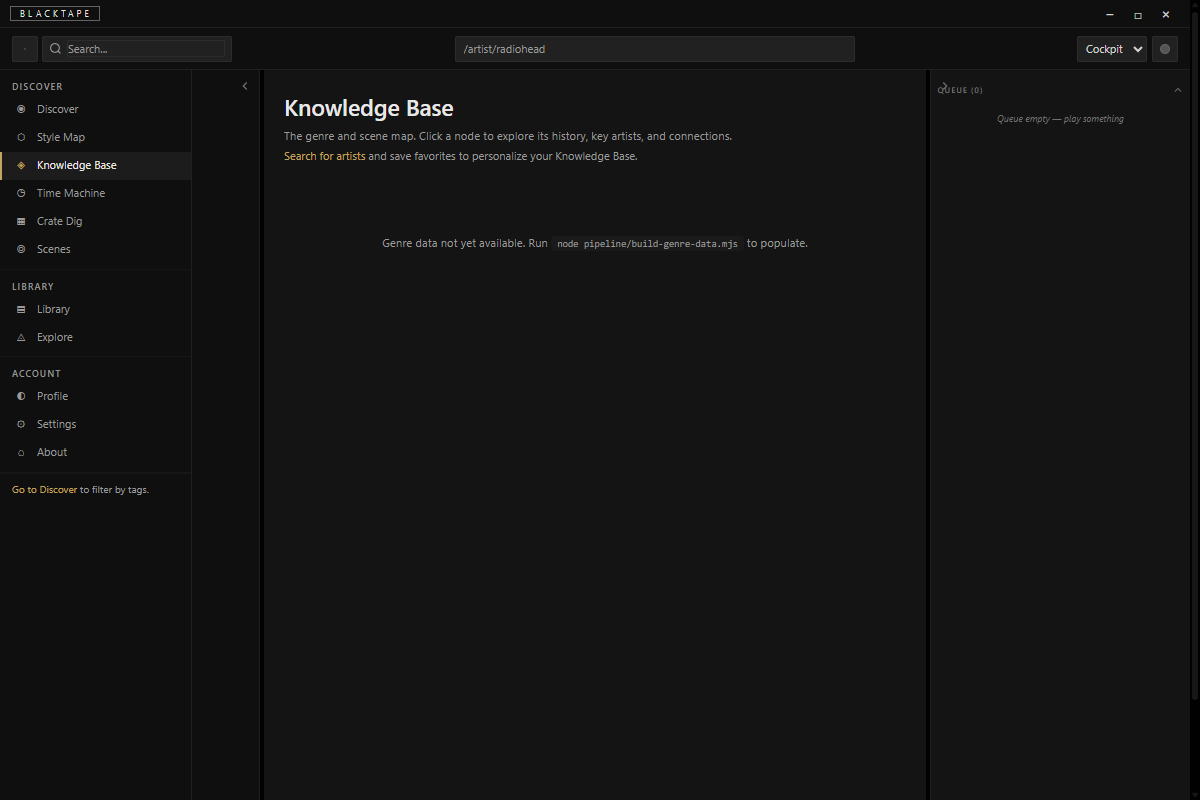
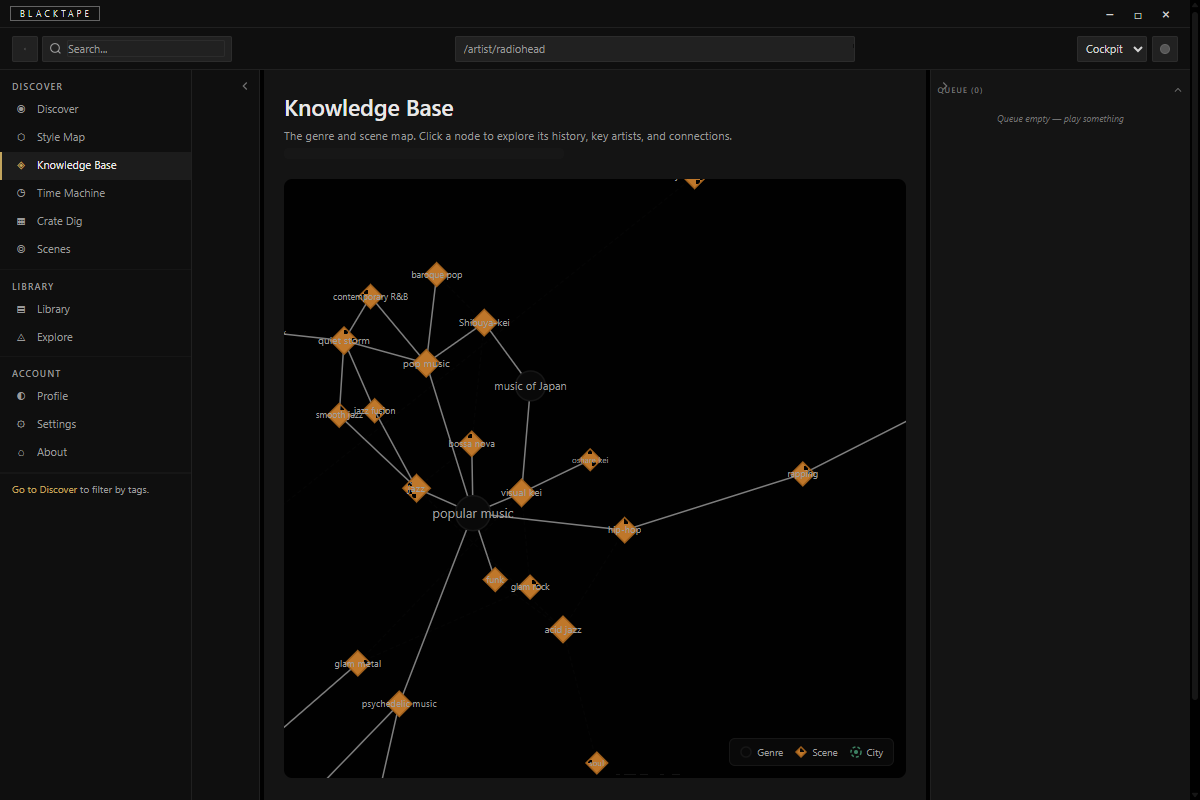
wip: auto-save

diff --git a/.claude/HANDOFF.md b/.claude/HANDOFF.md
@@ -1,47 +1,33 @@
 # Work Handoff — 2026-02-26
 
 ## Current Task
-Press screenshots — v2 fixes. Nearly done. One remaining item: KB genre graph.
+Press screenshots — COMPLETE. All 18 shots done. Ready to commit and execute Phase 28.
 
-## Progress
+## What Was Done (This Session)
+- ✅ Wikipedia thumbnails in ArtistCard.svelte (new `src/lib/wiki-thumbnail.ts`)
+- ✅ Card grids load real artist images (10-42 per view)
+- ✅ Discover country filter bug fixed (full names + UI-based navigation)
+- ✅ All discover filter shots returning 50 results
+- ✅ KB genre data merged into correct DB (`com.blacktape.app`, not `com.mercury.app`)
+- ✅ KB genre graph screenshot taken (graph rendered)
+- ✅ Debug logging reverted in `kb/+page.ts`
 
-### Completed This Session
-- ✅ Implemented Wikipedia thumbnail loading in `ArtistCard.svelte` (new `src/lib/wiki-thumbnail.ts`)
-- ✅ Card grid images now load (time machine: 10, crate dig: 11, search: 42 images loaded)
-- ✅ Fixed discover country filter bug — full country names required (e.g. "Finland" not "FI")
-- ✅ Discover filter shots all returning 50 results: doom+Finland, black metal+Norway, post-punk+UK, krautrock+Germany
-- ✅ Merged KB genre data into live AppData DB: 2906 genres, 2733 relationships
-  - Script: `pipeline/merge-genre-data.cjs` (DROP old schema, CREATE new, copy from pipeline/data/mercury.db)
-- ✅ Updated `tools/take-press-screenshots.mjs` with all fixes + keeper logic
+## Root Cause of KB Issue
+Wrong DB path. App identifier is `com.blacktape.app` but merge script was writing to `com.mercury.app`. Fixed in `pipeline/merge-genre-data.cjs`.
 
-### Keepers (DO NOT OVERWRITE)
-- `discover-niche-filters-shoegaze-japan.png`
-- `artist-niche-badge-obscure.png`
-- `artist-stats-tab.png`
+## Uncommitted Files
+- `src/lib/wiki-thumbnail.ts` (NEW)
+- `src/lib/components/ArtistCard.svelte`
+- `src/routes/kb/+page.ts` (debug log reverted — clean)
+- `tools/take-press-screenshots.mjs`
+- `tools/debug-kb-genre.mjs` (NEW — debug tool, can keep or delete)
+- `pipeline/merge-genre-data.cjs` (NEW)
+- `BUILD-LOG.md`
 
-### Still Broken
-- ❌ `knowledge-base-genre-graph.png` — KB page still shows "Genre data not yet available" despite 2906 genres being in the live DB. The Node.js query works fine (confirmed 50 nodes returned). Silent error in the Tauri IPC path somewhere. Rust init does NOT recreate the genres table. The `query_mercury_db` is a generic passthrough.
-
-## KB Debug Next Steps
-1. Check if the binary needs a recompile to pick up new DB state (try `cargo build` and rerun)
-2. OR: inspect the `getStarterGenreGraph` query — it uses 40 spread params which might hit a Tauri IPC serialization limit
-3. OR: Add console.error logging to KB `+page.ts` catch block temporarily, retake screenshot, check WebView2 devtools
-4. If still broken after 15 min: skip KB shot entirely — the other 17 shots are all good
-
-## Files Changed This Session
-- `src/lib/wiki-thumbnail.ts` — NEW: cached Wikipedia thumbnail fetcher
-- `src/lib/components/ArtistCard.svelte` — added $effect to load wiki thumbnail, img tag in art area
-- `tools/take-press-screenshots.mjs` — full rewrite with: keeper skip logic, UI-based country filters, image wait helper, KB skip on empty
-- `pipeline/merge-genre-data.cjs` — NEW: merges genres from pipeline/data/mercury.db into live AppData DB
-
-## Current Screenshot State
-All 18 files in `press-screenshots/v2/`. Most are now correct. Only `knowledge-base-genre-graph.png` may still be broken.
-
-## After Screenshots Are Done
-Execute Phase 28: `/gsd:execute-phase 28`
-
-## Git Status
-Uncommitted: ArtistCard.svelte, wiki-thumbnail.ts, take-press-screenshots.mjs, merge-genre-data.cjs, BUILD-LOG.md
+## Next Steps
+1. Commit all changes
+2. Review screenshots in `press-screenshots/v2/`
+3. Execute Phase 28: `/gsd:execute-phase 28`
 
 ## Resume Command
 After `/clear`, run `/resume`

diff --git a/BUILD-LOG.md b/BUILD-LOG.md
@@ -8194,3 +8194,6 @@ Fixed 8 of 11 Phase 28 bugs in commit `36bf980`. All 164 code tests passing.
 
 > **Commit cc93404** (2026-02-26 19:16) — auto-save: 4 files @ 19:16
 > Files changed: 3
+
+> **Commit 45d1127** (2026-02-26 19:38) — wip: auto-save
+> Files changed: 18
